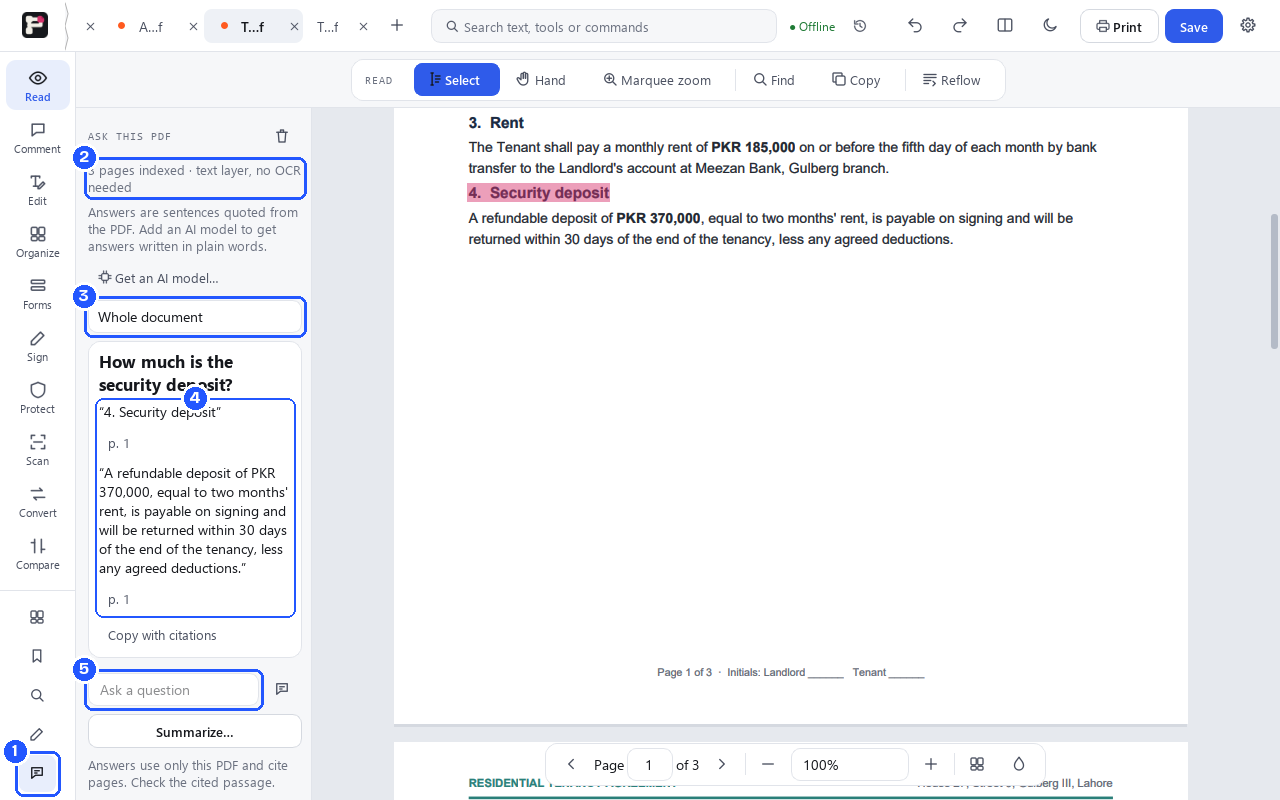
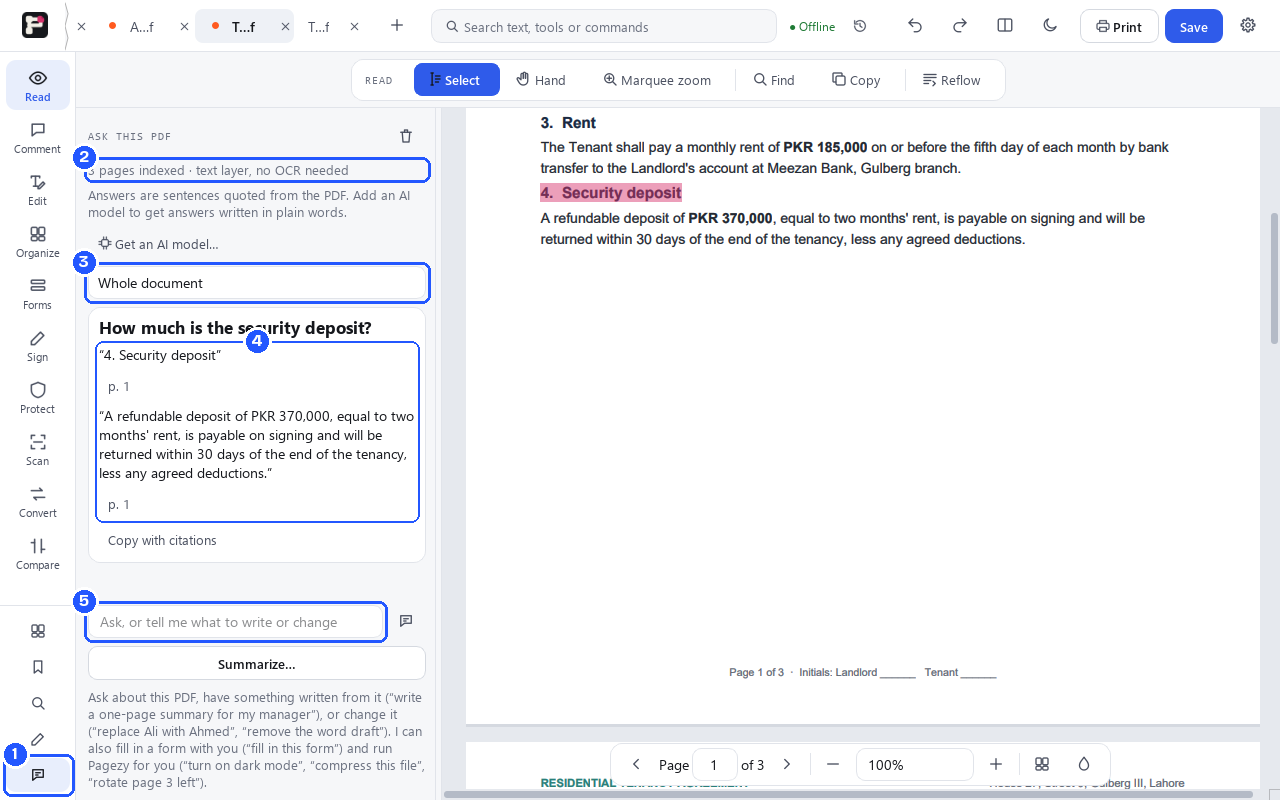
Update the Pagezy page, screenshots and user guide

diff --git a/guide/pagezy-guide.md b/guide/pagezy-guide.md
@@ -193,7 +193,7 @@ The full list of tools on Home:
 3. **The search box** opens the command palette (Ctrl+K): type any tool, command, page number or word.
 4. **The mode rail.** Pagezy groups its tools into modes: **Read**, **Comment**, **Edit**, **Organize**, **Forms**, **Sign**, **Protect**, **Scan** (Scan & OCR), **Convert** and **Compare**. All tools are on Home: click the logo, or press **Ctrl+K** and type a tool's name.
 5. **The toolbar** floats above the page and shows the tools of the current mode, with the mode's name at its start. On a small window, tools that don't fit go into a **More** menu at the end.
-6. **Panel buttons**, under the modes, open the side panels: **Pages**, **Bookmarks**, **Search**, **Signatures** and **Ask AI**, plus **Files** (attachments) and **Layers** when a file has them. Drag a panel's right edge to make it wider.
+6. **Panel buttons**, under the modes, open the side panels: **Pages**, **Bookmarks**, **Search**, **Signatures** and **Ask AI**, plus **Files** (attachments) and **Layers** when a file has them. In a short window they show just their icons, so every mode still fits; point at one to see its name. Drag a panel's right edge to make it wider.
 7. **The left panel**, here showing page thumbnails.
 8. **The page area.** Messages about the file (for example "This page is a scan") appear as coloured bars across its top, and short notes such as "Saved" appear for a moment in its bottom-left corner.
 9. **The page bar**, floating under the pages: page number, zoom, page layout and night pages ([section 7](#7-move-around-the-pages)).
